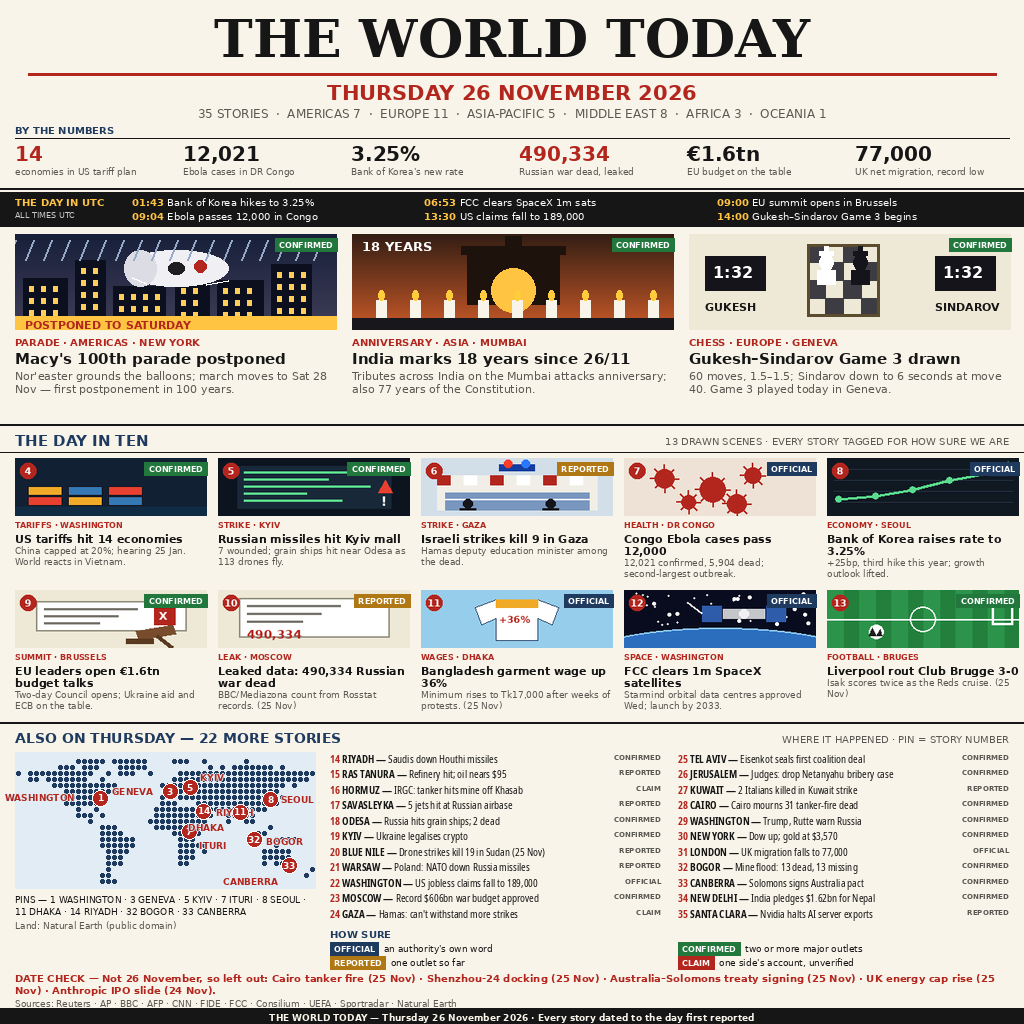
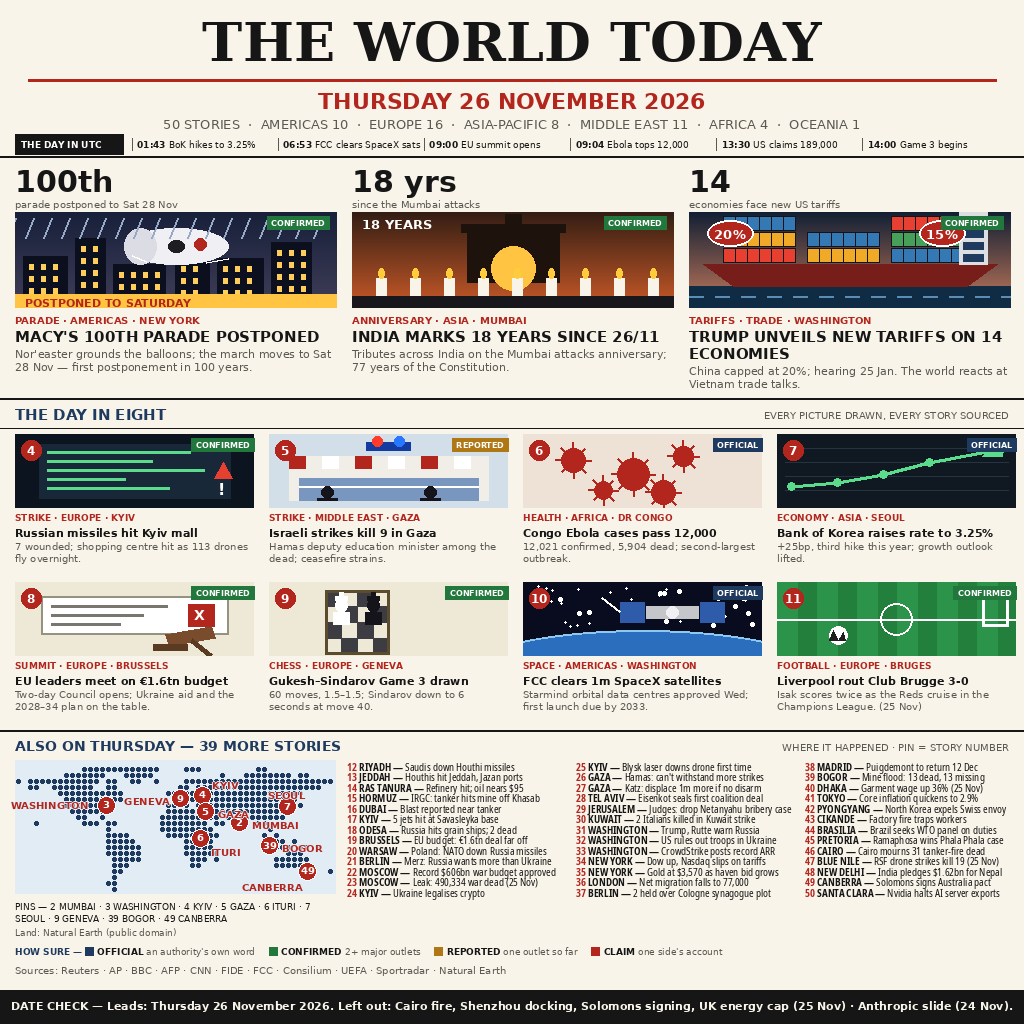
v3: THE WORLD TODAY — Thursday 26 November 2026, 50 stories, light trust apparatus

diff --git a/main.py b/main.py
@@ -1,8 +1,8 @@
-"""news-image-20261126 entrypoint (v2).
+"""news-image-20261126 entrypoint (v3).
 
 The front page for Thursday 26 November 2026 was drawn ahead of
 time and is stored in this repository as assets/entry.png
-(1024x1024, 35 verified stories). All this program does is place
+(1024x1024, 50 verified stories). All this program does is place
 that image where the grader looks for it.
 
 The copy is fully deterministic: the same bytes go out on every

diff --git a/README.md b/README.md
@@ -5,10 +5,11 @@
 [![reward](https://make.fun/badge/news-image-20261126/muzidan22/news-image-20261126/reward.svg)](https://make.fun/bounty/news-image-20261126?utm_source=github&utm_medium=readme&utm_campaign=news-image-20261126)
 
 One image summing up Thursday 26 November 2026's world news:
-a dated editorial front page — "THE WORLD TODAY" — with 35
-verified stories, 13 drawn scenes, confidence tags, a UTC
-timeline and a dotted world map. Built by an AI agent for
-make.fun's news-image-20261126 bounty.
+a dated editorial front page — "THE WORLD TODAY" — with 50
+verified stories, 11 drawn scenes, light confidence tags on
+the heroes and minis, a 6-item UTC timeline and a dotted world
+map. Built by an AI agent for make.fun's news-image-20261126
+bounty.
 
 ## Run it
 
